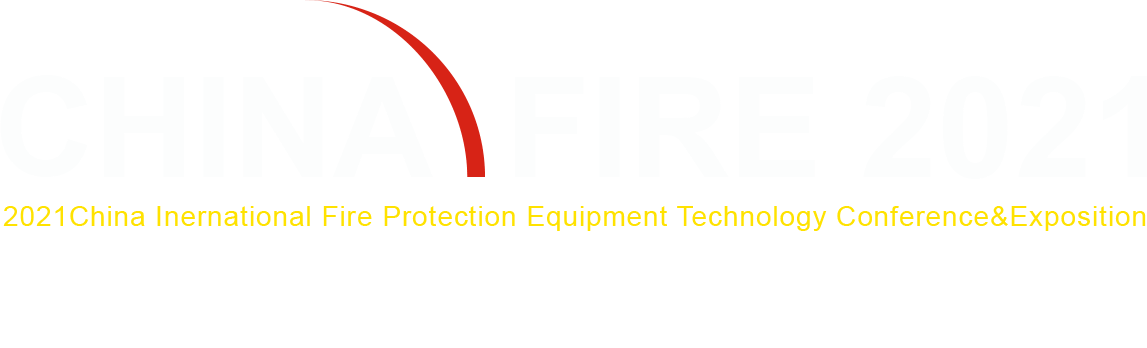
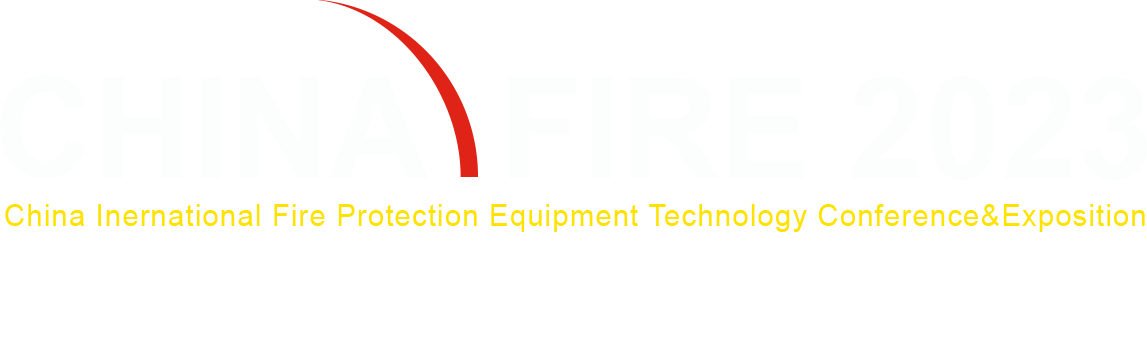
修改时间和图片

diff --git a/src/components/innovation/Introduce.vue b/src/components/innovation/Introduce.vue
@@ -77,7 +77,7 @@
       <div class="content">
         <div>
           <div class="paragraph">
-            由中国消防协会主办的第十九届中国国际消防设备技术交流展览会于2021年10月12日至15日在北京中国国际展览中心新馆隆重举行。
+            由中国消防协会主办的第十九届中国国际消防设备技术交流展览会于2023年10月10日至13日在北京中国国际展览中心新馆隆重举行。
           </div>
           <div class="paragraph">
             中国消防协会本着“引领产业优化升级，强化国家战略科技力量”主旨，在展览会期间推出了中国国际消防展创新产品评选活动。目前活动申报工作已开始，欢迎新老朋友踊跃报名。
@@ -89,7 +89,7 @@
             本届消防创新产品活动，把握创新产品的国际化、多元化和实用化，注重创新产品的展现力、推动力和影响力，突出创新产品的“高科”“高新”等创新亮点，在着力于扶持并鼓励创新型消防企业的同时，本着“每个企业都是创新阵地，每类项目都是创新空间”理念，提升展商创新产品的申报条件、评选标准、审定规格。
           </div>
           <div class="paragraph">
-            中国消防协会将组织行业专家团队，对参加创新产品评选的企业，以演讲、展示、实操展演等多种形式，进行严格规范的审核。对参加评审和评审入选的创新产品，制定名录手册，借助专业媒体重点宣传、定向传播、强力推荐。通过创新产品审定的优秀企业，可参与2021年消防展开幕式环节的中国消防创新评比颁奖典礼，并有机会在创新成果技术交流高峰论坛及消协会组织其它开放型论坛中发表演讲（通过审核资格的企业均可自行申报）。
+            中国消防协会将组织行业专家团队，对参加创新产品评选的企业，以演讲、展示、实操展演等多种形式，进行严格规范的审核。对参加评审和评审入选的创新产品，制定名录手册，借助专业媒体重点宣传、定向传播、强力推荐。通过创新产品审定的优秀企业，可参与2023年消防展开幕式环节的中国消防创新评比颁奖典礼，并有机会在创新成果技术交流高峰论坛及消协会组织其它开放型论坛中发表演讲（通过审核资格的企业均可自行申报）。
           </div>
         </div>
       </div>
@@ -219,8 +219,8 @@ import moment from 'moment'
 export default @Component({})
 class Introduce extends Vue {
   now = moment()
-  startTime = '2021-06-15 00:00:00'
-  endTime = '2021-07-10 23:59:59'
+  startTime = '2023-06-15 00:00:00'
+  endTime = '2023-07-10 23:59:59'
 
   summary = {
     pro: 0,

diff --git a/src/views/InvitationType.vue b/src/views/InvitationType.vue
@@ -29,7 +29,7 @@
     <div class="bottom">
       <div class="basic">
         <div class="name">
-          2021中国国际消防设备技术交流展览会
+          2023中国国际消防设备技术交流展览会
         </div>
         <div class="info">
           <div class="item">
@@ -38,7 +38,7 @@
           </div>
           <div class="item">
             <div>时间</div>
-            <div>2021年10月12-15日</div>
+            <div>2023年10月10-13日</div>
           </div>
           <div class="item">
             <div>地点</div>
@@ -96,12 +96,12 @@ export default class Invitation extends Vue {
   setShareMessage () {
     const { detail } = this
     wxApi.shareTimeline({
-      title: detail.name + '邀请您莅临参观2021年中国国际消防设备技术交流展', // 分享标题
+      title: detail.name + '邀请您莅临参观2023年中国国际消防设备技术交流展', // 分享标题
       link: window.location.href, // 分享链接
       imgUrl: 'http://www.view-ol.com/logo.png' // 分享图标
     })
     wxApi.shareAppMessage({
-      title: detail.name + '邀请您莅临参观2021年中国国际消防设备技术交流展', // 分享标题
+      title: detail.name + '邀请您莅临参观2023年中国国际消防设备技术交流展', // 分享标题
       desc: detail.content, // 分享描述
       link: window.location.href, // 分享链接
       imgUrl: 'http://www.view-ol.com/logo.png' // 分享图标

diff --git a/src/components/innovation/VoteProduct.vue b/src/components/innovation/VoteProduct.vue
@@ -129,7 +129,7 @@ class VoteProduct extends Vue {
       imgUrl: 'https://www.view-ol.com/2021logo.jpg' // 分享图标
     })
     wxApi.shareAppMessage({
-      title: '2021年第十九届中国国际消防创新产品评选活动-在线投票', // 分享标题
+      title: '2023年第十九届中国国际消防创新产品评选活动-在线投票', // 分享标题
       desc: detail.companyName + '邀请您在线投票-创新产品', // 分享描述
       link: window.location.href.replace(window.location.search, ''), // 分享链接
       imgUrl: 'https://www.view-ol.com/2021logo.jpg' // 分享图标

diff --git a/src/components/innovation/Rank.vue b/src/components/innovation/Rank.vue
@@ -36,7 +36,7 @@
           class="icon"
         >
         <div class="desc">
-          投票开始：2021-06-15 00:00:00
+          投票开始：2023-06-15 00:00:00
         </div>
       </div>
       <div class="item">
@@ -197,8 +197,8 @@ import * as ProductAPI from '@/api/product'
 export default @Component({})
 class Rank extends Vue {
   now = moment()
-  startTime = '2021-06-15 00:00:00'
-  endTime = '2021-07-10 23:59:59'
+  startTime = '2023-06-15 00:00:00'
+  endTime = '2023-07-10 23:59:59'
   keywords = ''
   more = false
   categoryList = {

diff --git a/src/components/innovation/Vote.vue b/src/components/innovation/Vote.vue
@@ -36,7 +36,7 @@
           class="icon"
         >
         <div class="desc">
-          投票开始：2021-06-15 00:00:00
+          投票开始：2023-06-15 00:00:00
         </div>
       </div>
       <div class="item">
@@ -158,8 +158,8 @@ import moment from 'moment'
 export default @Component({})
 class Vote extends Vue {
   now = moment()
-  startTime = '2021-06-15 00:00:00'
-  endTime = '2021-07-10 23:59:59'
+  startTime = '2023-06-15 00:00:00'
+  endTime = '2023-07-10 23:59:59'
   loading = false
   complete = false
 

diff --git a/src/components/Main.vue b/src/components/Main.vue
@@ -23,7 +23,7 @@
           欢迎您莅临参观
         </div>
         <div class="location">
-          2021年10月12-15日&nbsp;&nbsp;&nbsp;&nbsp;中国国际展览中心（新馆）
+          2023年10月10-13日&nbsp;&nbsp;&nbsp;&nbsp;中国国际展览中心（新馆）
         </div>
         <div class="mt-3 mb-4 place d-flex flex-column align-items-center">
           <div class="top">

diff --git a/src/components/invitation/ChineseStyle.vue b/src/components/invitation/ChineseStyle.vue
@@ -16,7 +16,7 @@
       我司展位号
     </div>
     <div class="time">
-      2021年10月13-15日
+      2023年10月10-13日
     </div>
     <div class="location">
       中国国际展览中心（新馆）

diff --git a/src/components/invitation/Envelope.vue b/src/components/invitation/Envelope.vue
@@ -16,7 +16,7 @@
       我司展位号
     </div>
     <div class="time">
-      2021年10月13-15日
+      2023年10月10-13日
     </div>
     <div class="location">
       中国国际展览中心（新馆）

diff --git a/src/components/invitation/Gift.vue b/src/components/invitation/Gift.vue
@@ -38,7 +38,7 @@
       alt=""
     >
     <div class="time">
-      2021年10月13-15日
+      2023年10月10-13日
     </div>
     <div class="location">
       中国国际展览中心（新馆）
